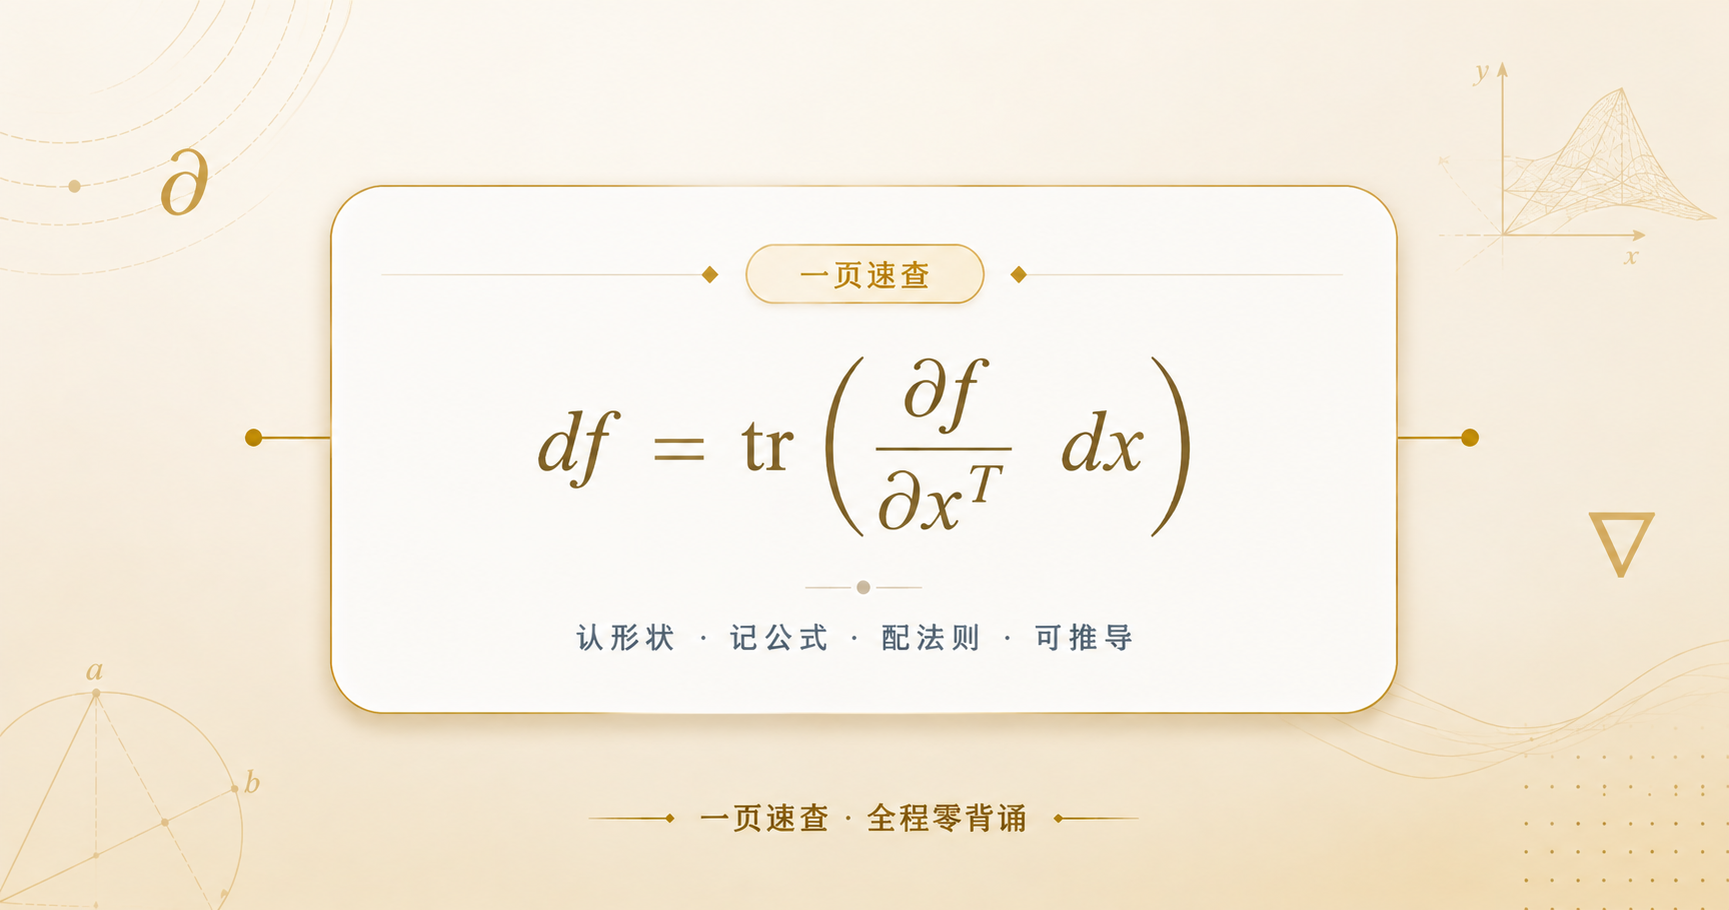
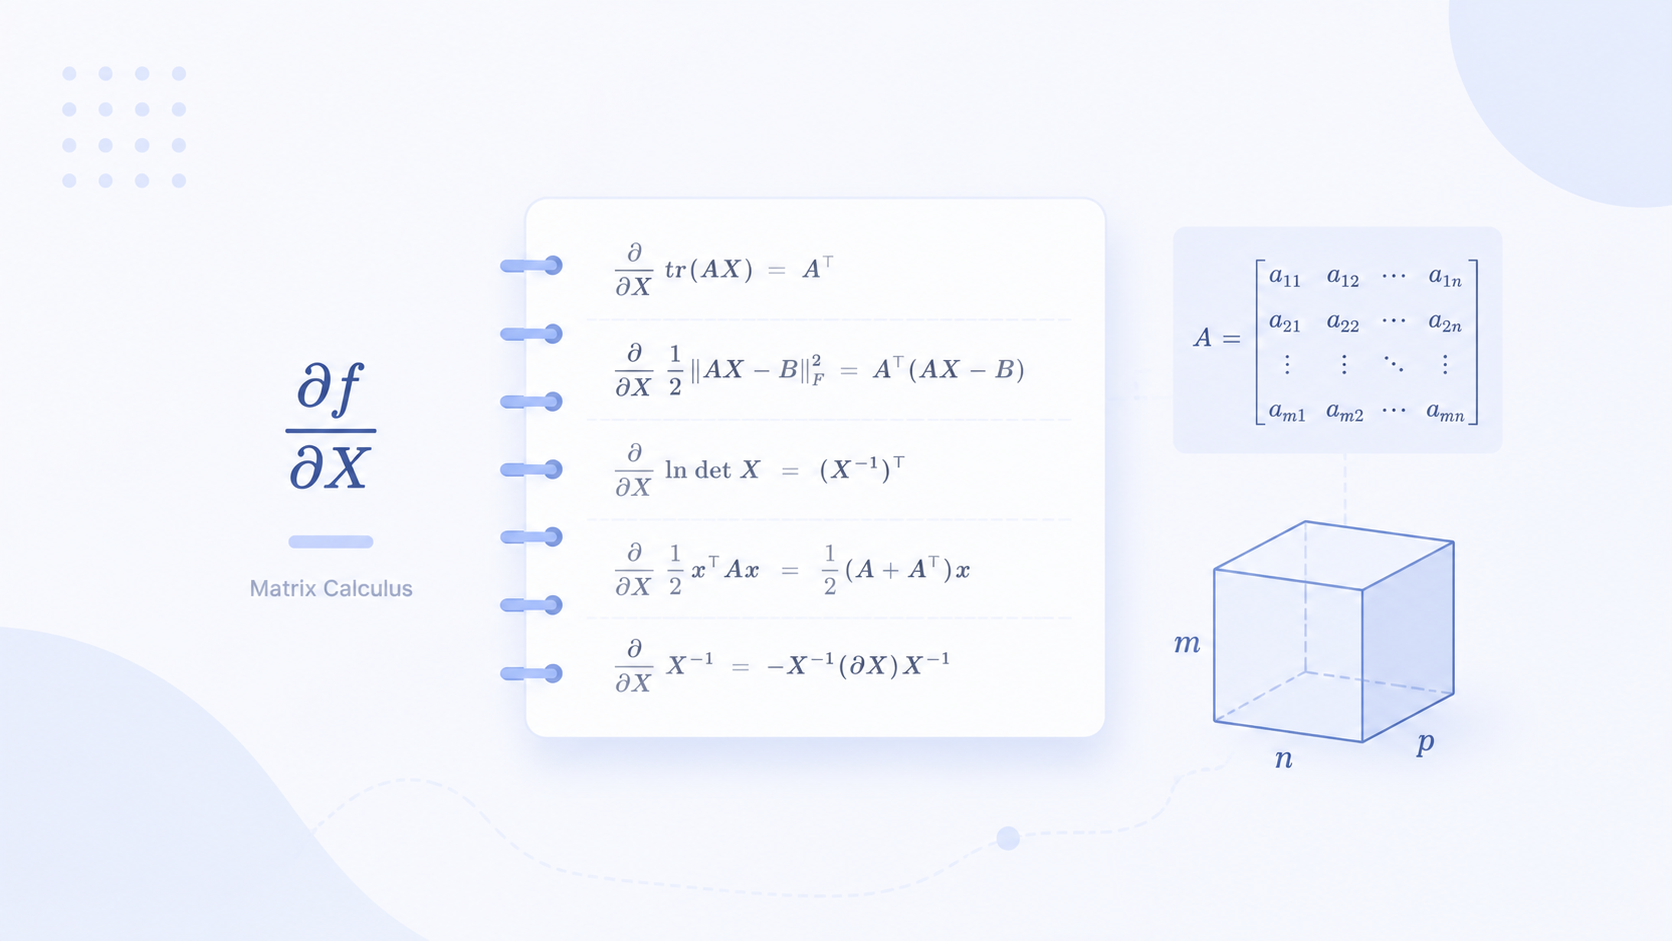
feat: 封面统一为 PNG：Agent 实现原理、求导积分速查表改用 cover.png
Agent 实现原理：cover.svg → cover.png（引用与文件同步替换）
求导积分速查表：cover.jpg → cover.png
Linux配置网络、矩阵求导速查手册：cover.png 重新编码压缩

diff --git a/source/_posts/数学/求导积分速查表.md b/source/_posts/数学/求导积分速查表.md
@@ -4,7 +4,7 @@ categories: '数学'
 tags: ['微积分', '微分', '积分']
 date: 2024-06-14 15:31:11
 katex: true
-cover: cover.jpg
+cover: cover.png
 ---
 这张表整理了考研数学常用的求导、积分与函数展开公式，备考时可以对照着复习。怎么用？考前多抄几遍混个眼熟，考场上想不起来就靠肌肉记忆。
 

diff --git a/source/_posts/技术/Agent 实现原理.md b/source/_posts/技术/Agent 实现原理.md
@@ -1,6 +1,6 @@
 ---
 title: Agent 实现原理：从一条"修 bug"指令说起
-cover: cover.svg
+cover: cover.png
 categories: '技术'
 tags: ['AI', 'Agent']
 date: 2026-08-07
